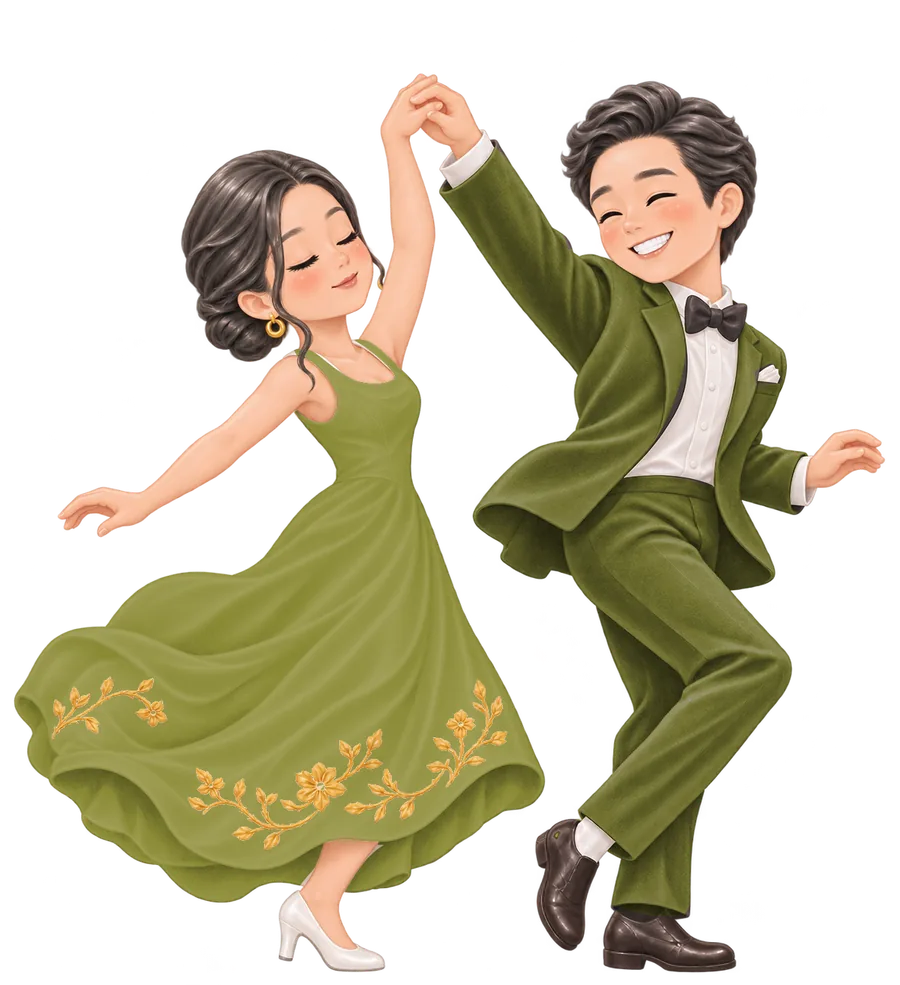
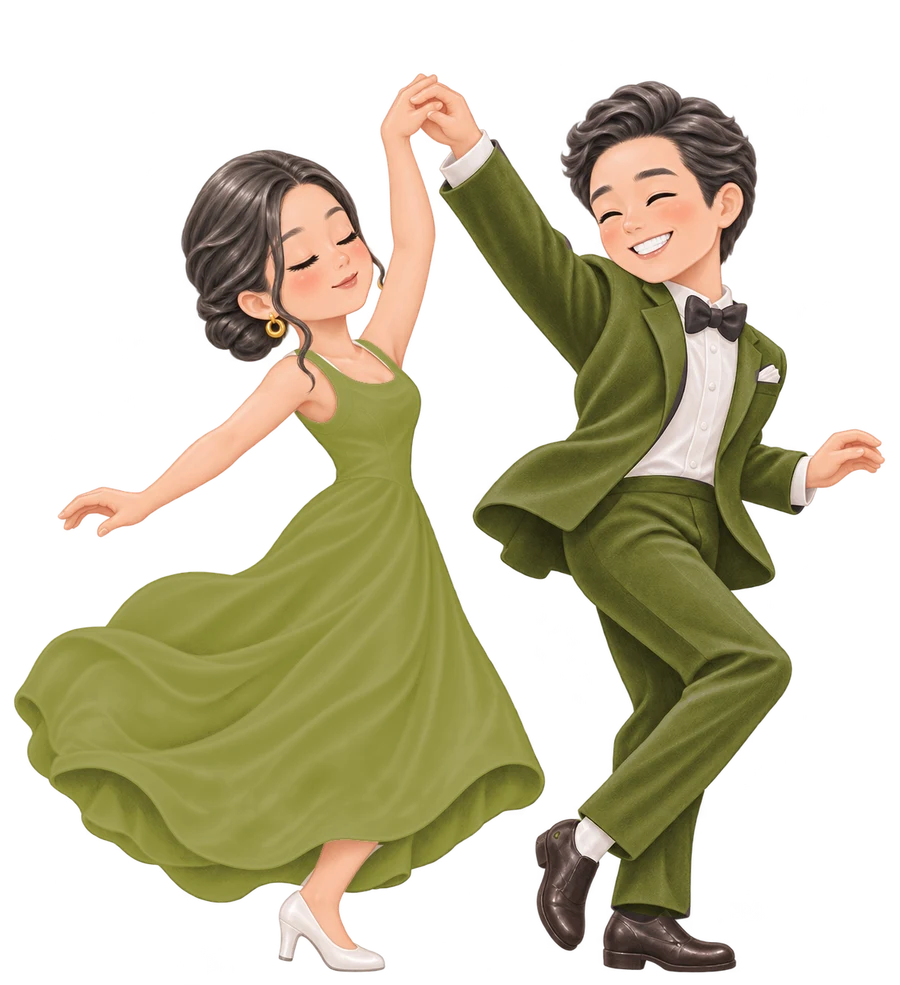
feat: swap dresscode dance to plain satin outfits, drop white-dress look
Re-export the five coloured outfits from the new dance kit (no dress
pattern) and remove the original white dress / black suit look. The loop
now opens and ends on ruby, which is also the static poster. Motion is
unchanged.

Changed region(s): [[0.2178, 0.7005, 0.56, 0.8832], [0.0622, 0.6701, 0.1867, 0.7614]]

diff --git a/lib/dance.ts b/lib/dance.ts
@@ -2,8 +2,8 @@
  * Cặp đôi khiêu vũ của trang Dresscode — bộ dựng WebGL, chuyển từ bản bàn
  * giao (assets-source/dresscode-dance/animate.js + timeline.js).
  *
- * Sáu ảnh cùng một dáng, cùng toạ độ (public/dresscode/dance/couple-*.webp):
- * bản gốc và năm bản đã nhuộm. Mỗi khung hình vẽ MỘT lưới tam giác dùng chung
+ * Năm ảnh cùng một dáng, cùng toạ độ (public/dresscode/dance/couple-*.webp),
+ * mỗi ảnh một màu của bảng — váy satin trơn, vest cùng tông. Mỗi khung hình vẽ MỘT lưới tam giác dùng chung
  * cho hai bản kề nhau, uốn theo 12 "tay nắm" (tay, đầu, eo, tà váy, gối…) để
  * thành điệu nhảy; màu mới quét từ tà váy dưới trái lên trên phải. Vì chung
  * lưới nên giữa lúc đổi màu chỉ có một đường viền người, không bị bóng đôi.
@@ -13,33 +13,26 @@
  */
 
 /** Tên bản nhuộm — trùng hậu tố file `couple-<id>.webp`. */
-export type DanceLook = "original" | "ruby" | "vermilion" | "tangerine" | "olive" | "dark-olive";
+export type DanceLook = "ruby" | "vermilion" | "tangerine" | "olive" | "dark-olive";
 
-export const DANCE_LOOKS: DanceLook[] = [
-  "original",
-  "ruby",
-  "vermilion",
-  "tangerine",
-  "olive",
-  "dark-olive",
-];
+export const DANCE_LOOKS: DanceLook[] = ["ruby", "vermilion", "tangerine", "olive", "dark-olive"];
 
 export const DANCE_BASE = "/dresscode/dance/";
 export const DANCE_DURATION = 9.2;
 
 /** Ảnh tĩnh: poster lúc chưa tải, chế độ giảm chuyển động, máy không có WebGL. */
-export const DANCE_POSTER = `${DANCE_BASE}couple-original.webp`;
+export const DANCE_POSTER = `${DANCE_BASE}couple-ruby.webp`;
 /** Tỉ lệ khung của ảnh (1199 × 1312). */
 export const DANCE_RATIO = 1199 / 1312;
 
 /** `time` là giữa đoạn quét màu; `look` là chỉ số trong DANCE_LOOKS. */
 const MOVES = [
   { time: 0, look: 0, transition: 0 },
-  { time: 0.74, look: 1, transition: 0.48 },
-  { time: 2.28, look: 2, transition: 0.46 },
-  { time: 3.84, look: 3, transition: 0.5 },
-  { time: 5.4, look: 4, transition: 0.46 },
-  { time: 6.96, look: 5, transition: 0.48 },
+  { time: 0.74, look: 0, transition: 0.48 },
+  { time: 2.28, look: 1, transition: 0.46 },
+  { time: 3.84, look: 2, transition: 0.5 },
+  { time: 5.4, look: 3, transition: 0.46 },
+  { time: 6.96, look: 4, transition: 0.48 },
   { time: 8.58, look: 0, transition: 0.52 },
 ];
 

diff --git a/components/ui/DressDance.tsx b/components/ui/DressDance.tsx
@@ -14,9 +14,9 @@ export type DanceSwatch = { name: string; hex: string; look?: DanceLook };
  * thứ nằm chung một component vì chúng phải biết nhau.
  *
  * Canvas WebGL ở lib/dance.ts. Component chỉ lo vòng đời:
- *   - chỉ tải sáu ảnh khi section sắp cuộn tới (không tốn băng thông lúc mở thiệp);
+ *   - chỉ tải năm ảnh khi section sắp cuộn tới (không tốn băng thông lúc mở thiệp);
  *   - dừng vẽ khi ra khỏi màn, quay lại thì nhảy tiếp từ chỗ đã dừng;
- *   - `prefers-reduced-motion` hoặc máy không có WebGL → giữ ảnh tĩnh gốc.
+ *   - `prefers-reduced-motion` hoặc máy không có WebGL → giữ ảnh tĩnh đỏ ruby.
  *
  * Ảnh tĩnh nằm dưới canvas suốt, cùng khung với sân khấu của canvas (tranh
  * 900×985 giữa sân 980×1060 — `.dance-stage` trong globals.css), nên lúc
@@ -56,7 +56,7 @@ export function DressDance({ swatches }: { swatches: DanceSwatch[] }) {
       const look = dance.render(elapsed);
       if (look !== shown) {
         shown = look;
-        setActive(look === "original" ? null : look);
+        setActive(look);
       }
       frame = requestAnimationFrame(tick);
     };
